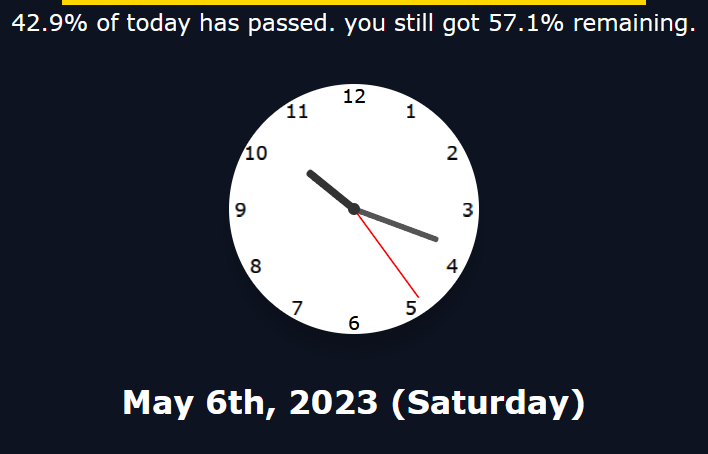
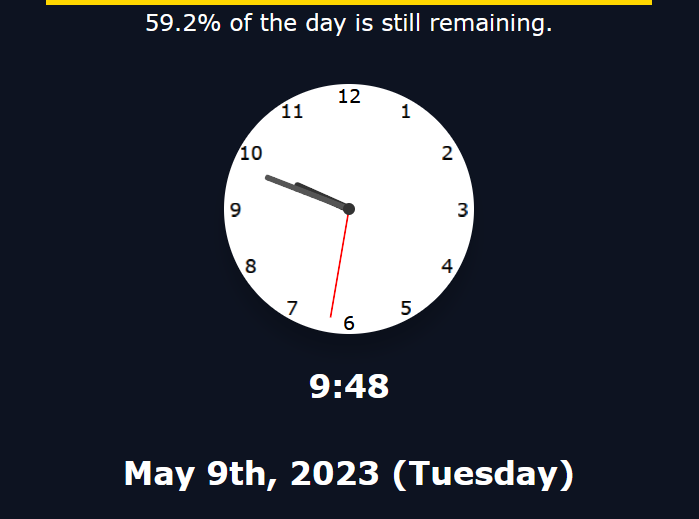
update

Changed region(s): [[0.3004, 0.1542, 0.691, 0.7709], [0.0, 0.0, 0.9914, 0.0925], [0.1502, 0.8634, 0.8412, 0.9559]]

diff --git a/clock/script/script.js b/clock/script/script.js
@@ -3,27 +3,42 @@ const hourHand = $.querySelector('.hour-hand')
 const minuteHand = $.querySelector('.minute-hand')
 const secondHand = $.querySelector('.second-hand')
 const dateElem = $.querySelector('.date')
+let howMuchTimeLeftDiv = $.querySelector('.how-much-time-left')
+let howMuchTimeLeftDescription = $.querySelector('.how-much-time-left-description')
+let showTime = $.querySelector('.show-time')
 let months = ["January", "February", "March", "April", "May", "June", "July", "August", "September", "October", "November", "December"];
 let days = ["Sunday", "Monday", "Tuesday", "Wednesday", "Thursday", "Friday", "Saturday"];
-let time = new Date()
-let dayOfTheMonth = time.getDate()
-let dayOfTheWeek = time.getDay()
-let monthOfTheYear = time.getMonth()
-let year = time.getFullYear()
-let howMuchTimeLeft = $.querySelector('.how-much-time-left')
-let howMuchTimeLeftDescription = $.querySelector('.how-much-time-left-description')
+let time;
+let hour;
+let minute;
+let second;
+let milliSecond;
+let dayOfTheMonth;
+let dayOfTheWeek;
+let monthOfTheYear;
+let year;
 
 
 window.addEventListener('load', myTime)
 window.addEventListener('load', howMuchTimeLeftHandler)
+window.addEventListener('load', showTimeHandler)
+
+
+function theExactTime() {
+	time = new Date()
+	hour = time.getHours()
+	minute = time.getMinutes()
+	second = time.getSeconds()
+	milliSecond = time.getMilliseconds()
+	dayOfTheMonth = time.getDate()
+	dayOfTheWeek = time.getDay()
+	monthOfTheYear = time.getMonth()
+	year = time.getFullYear()
+}
 
 
 function myTime() {
-	let time = new Date()
-	let hour = time.getHours()
-	let minute = time.getMinutes()
-	let second = time.getSeconds()
-	let milliSecond = time.getMilliseconds()
+	theExactTime()
 
 	hourHand.style.transform = `rotate(${((hour + (minute / 60)) * 30)}deg)`
 	minuteHand.style.transform = `rotate(${((minute + (second / 60)) * 6)}deg)`
@@ -31,10 +46,8 @@ function myTime() {
 
 }
 
-setInterval(myTime, 1);
 
-
-
+theExactTime()
 dateElem.innerHTML = `${months[monthOfTheYear]} ${dayOfTheMonth + suffixOfTheDay()}, ${year} (${days[dayOfTheWeek]})`
 
 function suffixOfTheDay() {
@@ -50,19 +63,30 @@ function suffixOfTheDay() {
 }
 
 
-
 function howMuchTimeLeftHandler() {
-	let time = new Date()
-	let hour = time.getHours()
-	let minute = time.getMinutes()
-	let second = time.getSeconds()
+	theExactTime()
 
 	let timeLeft = (((hour * 60 * 60) + (minute * 60) + second) / 86400)
 	let timeLeftPercent = (timeLeft * 100).toFixed(1)
 
-	howMuchTimeLeft.style.width = `${100 - timeLeftPercent}%`
-	howMuchTimeLeftDescription.innerHTML = `${timeLeftPercent}% of today has passed. you still got ${(100 - timeLeftPercent).toFixed(1)}% remaining.`
+	howMuchTimeLeftDiv.style.width = `${100 - timeLeftPercent}%`
+
+	if (timeLeftPercent - Math.floor(timeLeftPercent) === 0) {
+		howMuchTimeLeftDescription.innerHTML = `${100 - timeLeftPercent}% of the day is still remaining.`
+	} else {		
+		howMuchTimeLeftDescription.innerHTML = `${(100 - timeLeftPercent).toFixed(1)}% of the day is still remaining.`
+	}
 }
 
-setInterval(howMuchTimeLeftHandler, 86000)
 
+function showTimeHandler() {
+	theExactTime()
+	
+	showTime.innerHTML = `${hour}:${minute}`
+}
+
+
+
+setInterval(myTime, 10);
+setInterval(howMuchTimeLeftHandler, 86000)
+setInterval(showTimeHandler, 1000)

diff --git a/clock/style/style.css b/clock/style/style.css
@@ -1,3 +1,7 @@
+:root{
+  --font: Verdana, Geneva, Tahoma, sans-serif;
+}
+
 body {
   background-color: #0d1321;
   display: flex;
@@ -16,7 +20,7 @@ body {
 .how-much-time-left-description{
 	margin: 0 auto;
 	color: #fff;
-	font-family: Verdana, Geneva, Tahoma, sans-serif;
+	font-family: var(--font);
 	font-size: 23px;
 	text-align: center;
 }
@@ -108,7 +112,7 @@ body {
 }
 
 *>.clock__number-holder {
-  font-family: Verdana, Geneva, Tahoma, sans-serif;
+  font-family: var(--font);
   font-size: 19px;
 }
 
@@ -208,14 +212,20 @@ body {
 }
 
 /*
-=========
-  date 
-=========
+=======================
+  date and show time
+=======================
 */
+
+.show-time{
+  color: #fff;
+  margin: 2rem auto 0;
+  font-family: var(--font);
+}
 
 .date {
   margin: 3rem auto;
-  font-family: Verdana, Geneva, Tahoma, sans-serif;
+  font-family: var(--font);
   color: #fff;
   text-align: center;
 }

diff --git a/clock/index.html b/clock/index.html
@@ -54,6 +54,7 @@
 			<div class="clock__number-twelve">12</div>
 		</div>
 	</div>
+	<h1 class="show-time"></h1>
 	<h1 class="date"></h1>
 	<script src="script.js"></script>
 </body>
